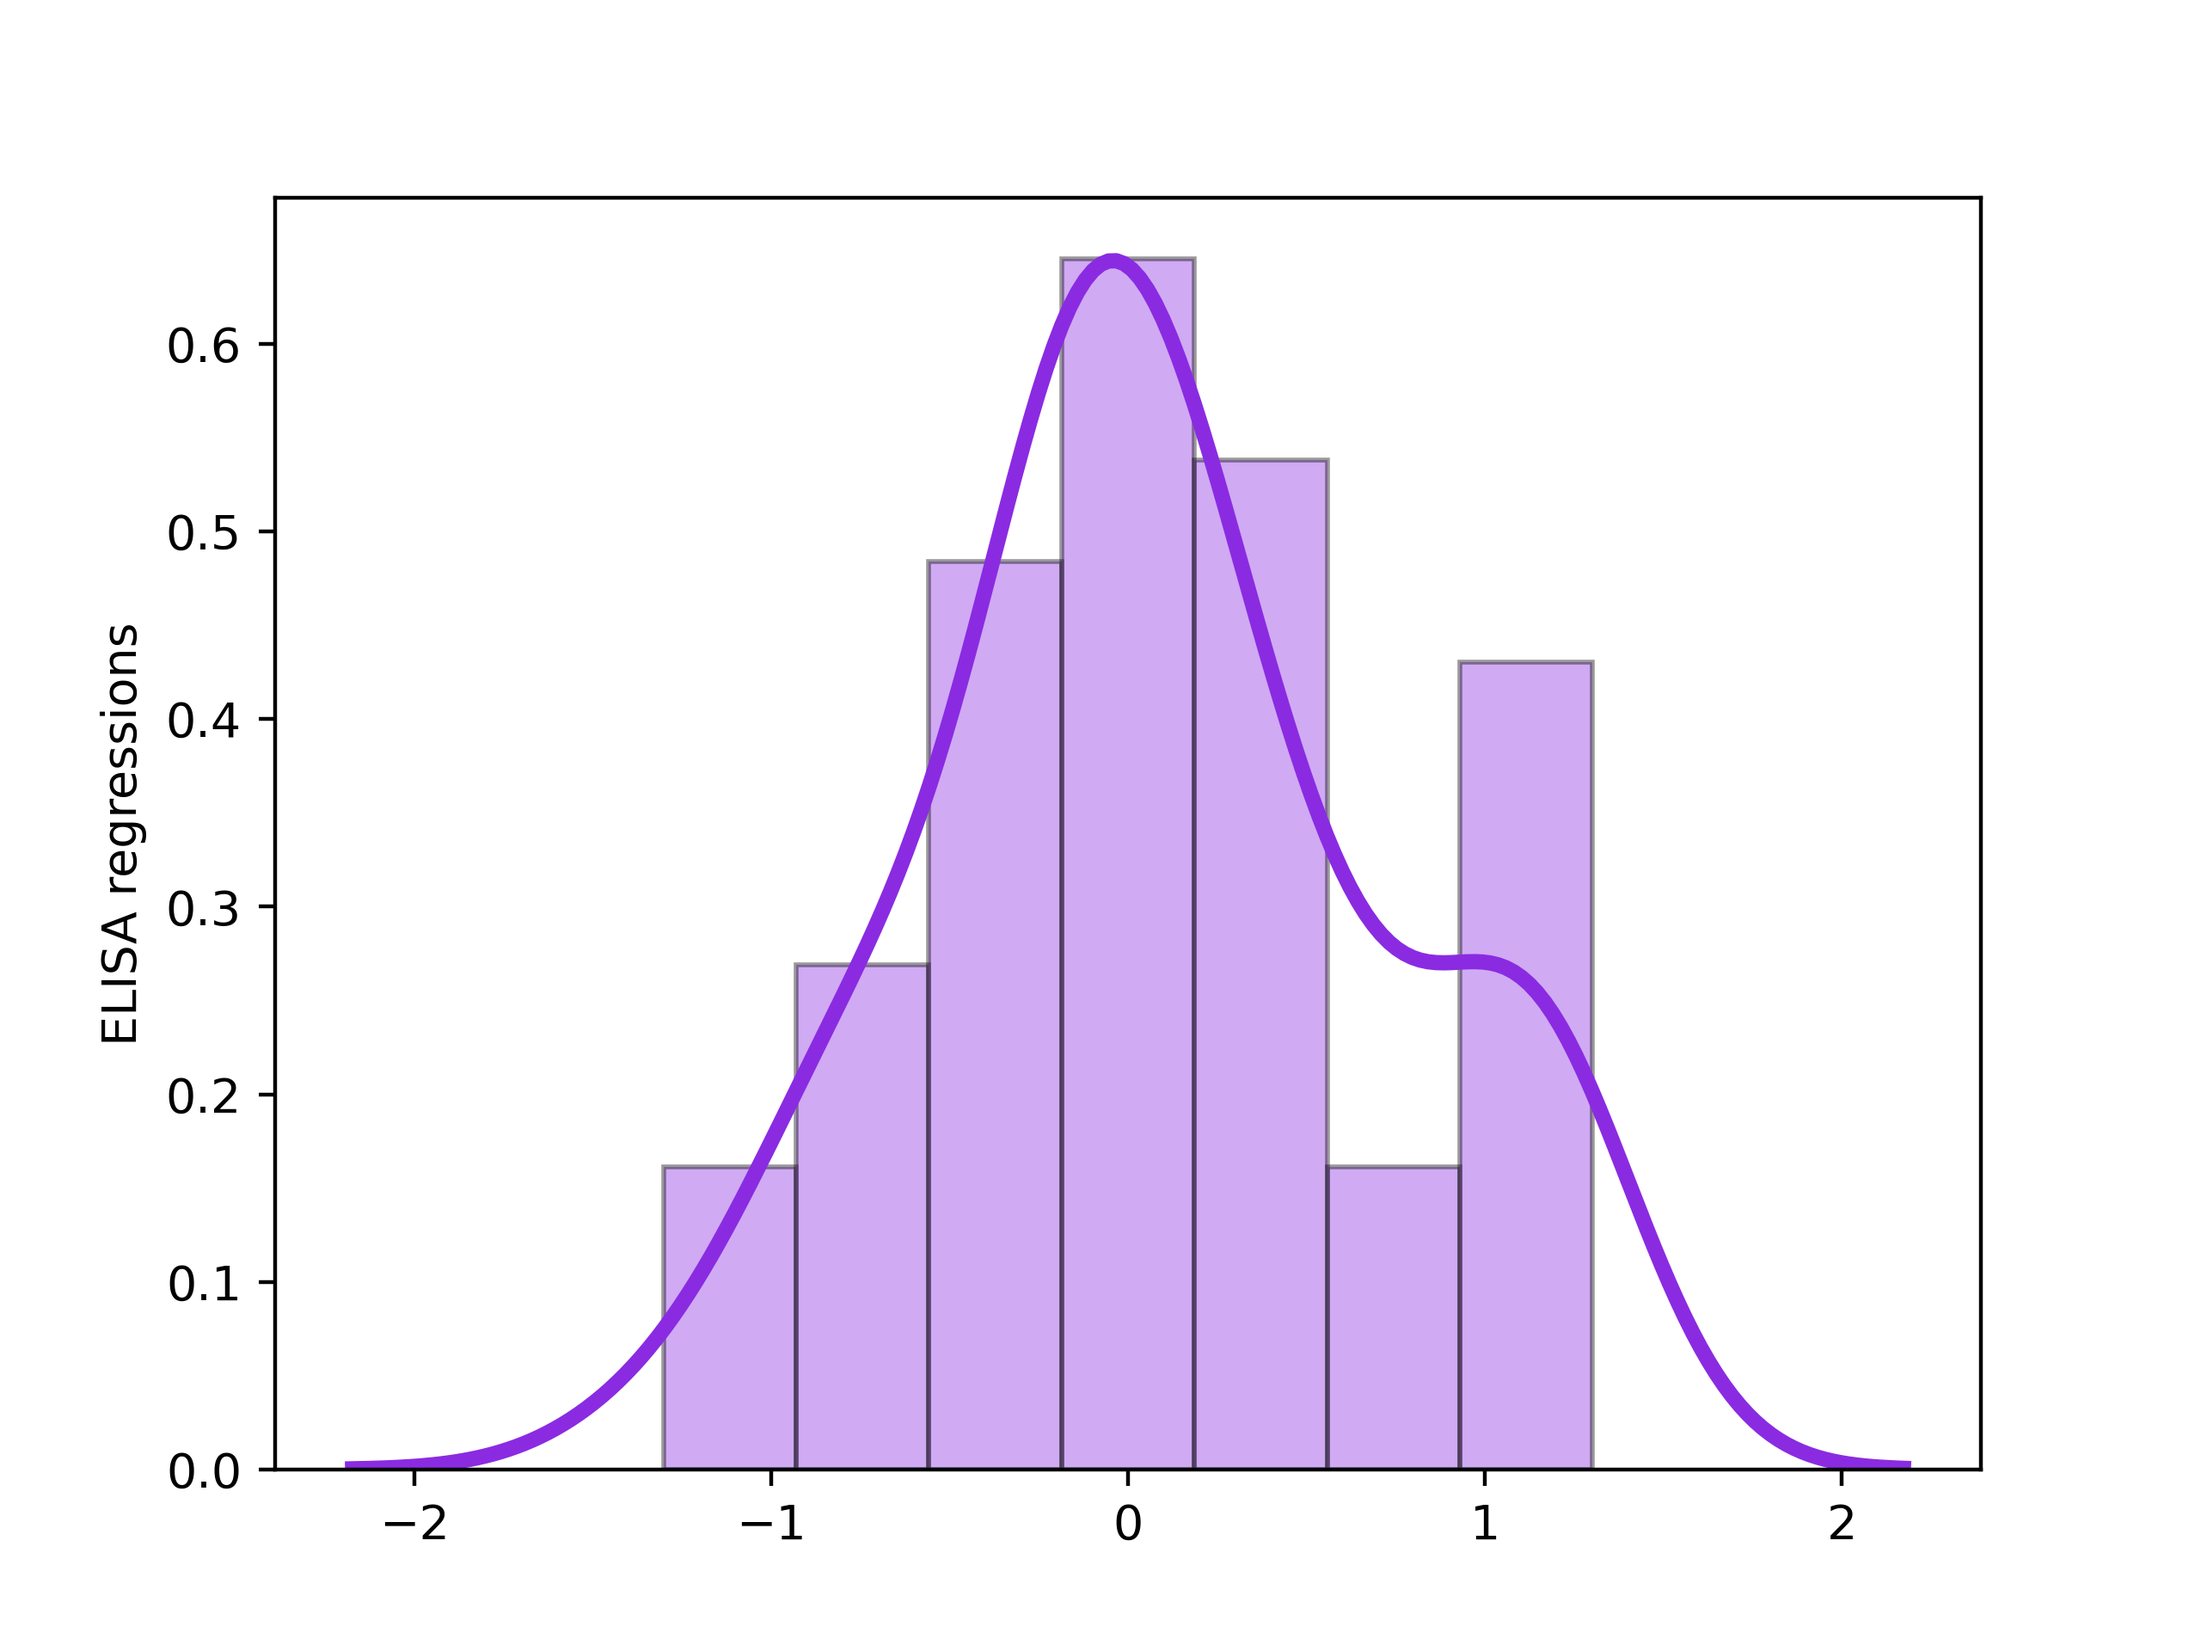
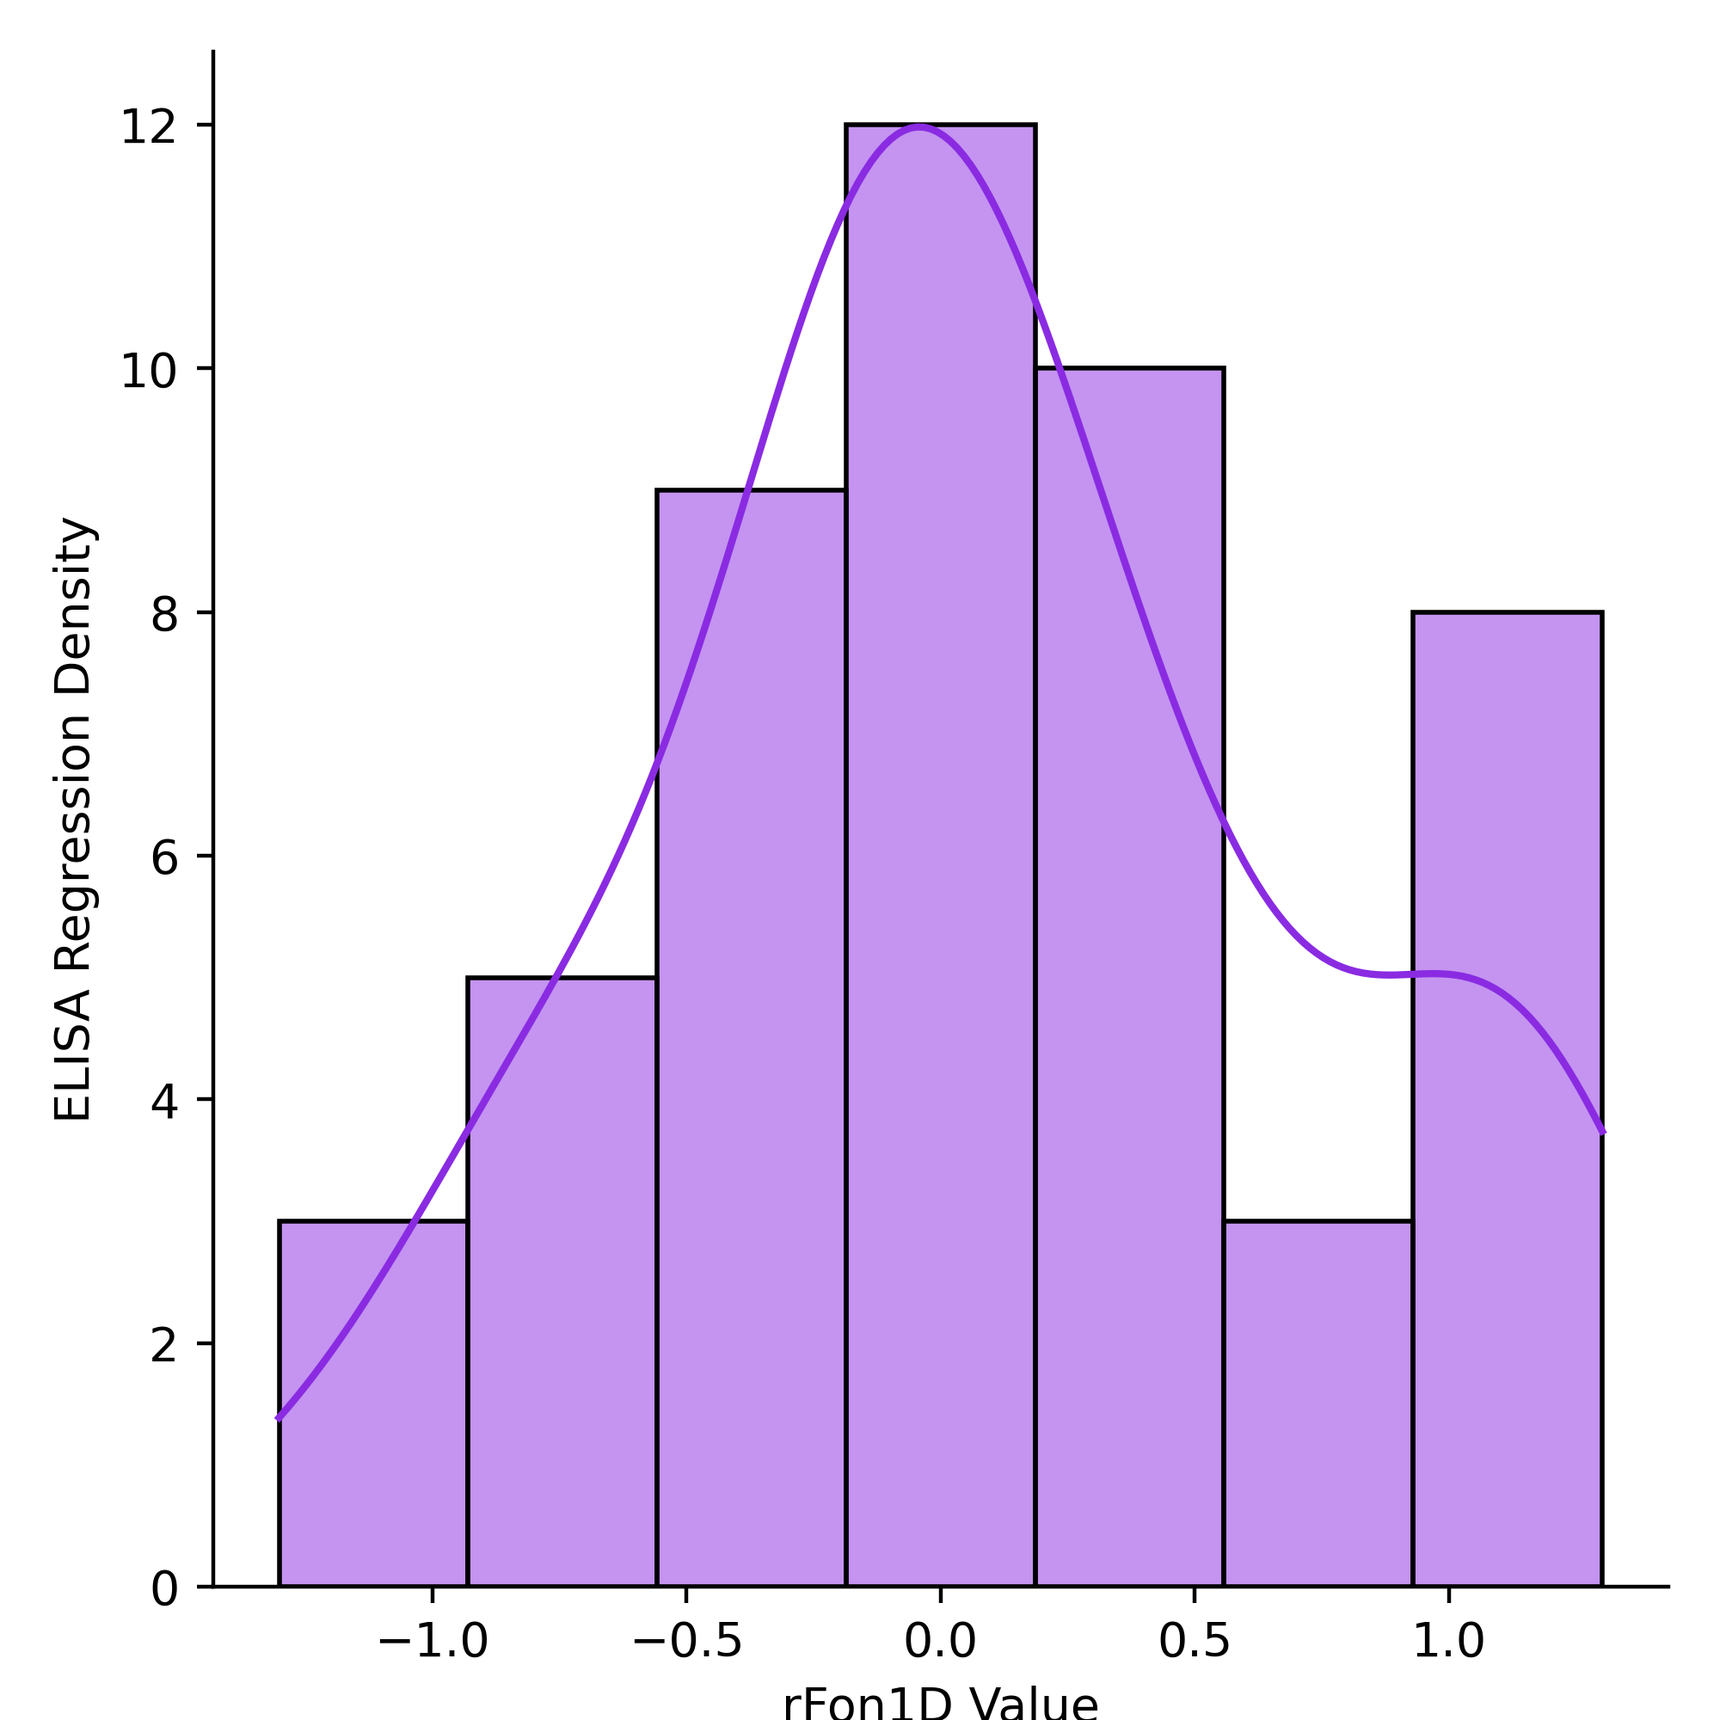
It's a density plot now

diff --git a/ortho_seq_code/plotclass.py b/ortho_seq_code/plotclass.py
@@ -189,13 +189,7 @@ class rf1d:
             z = np.where(x == i)
             s = z[0][0]
             k = z[1][0]
-            print(
-                str(round(self.x[s, k], 4))
-                + "\tSite: "
-                + str(s)
-                + "\t\tKey: "
-                + str(self.alphbt_input[k])
-            )
+            print(str(round(self.x[s, k], 4)) + "\tSite: " + str(s) + "\t\tKey: " + str(self.alphbt_input[k]))
 
     def trim(self, span, comp):
         if comp not in self.complist:
@@ -285,15 +279,14 @@ class rf1d:
         else:
             width = 0
         sns.displot(x_red, kde=True, color="blueviolet")
-        plt.ylabel(self.phenotype + " Regression Density")
+        plt.ylabel(self.phenotype + " Regression Density", stat="density")
         plt.xlabel("rFon1D Value")
         if out_dir is not None:
             path_sav = "rFon1D_density_" + str(self.phenotype) or "" + ".png"
             path_sav = path_sav.replace(" ", "_")
             plt.savefig(os.path.join(str(out_dir), path_sav), dpi=400)
             print(
-                "saved regression graph as",
-                str(os.path.join(str(out_dir), path_sav)),
+                "saved regression graph as", str(os.path.join(str(out_dir), path_sav)),
             )
         elif self.out_dir is not None:
             path_sav = "rFon1D_density_" + str(self.phenotype) or "" + ".png"
@@ -323,8 +316,7 @@ class rf1d:
             path_sav = path_sav.replace(" ", "_")
             plt.savefig(os.path.join(str(out_dir), path_sav), dpi=400)
             print(
-                "saved regression graph as",
-                str(os.path.join(str(out_dir), path_sav)),
+                "saved regression graph as", str(os.path.join(str(out_dir), path_sav)),
             )
         elif self.out_dir is not None:
             path_sav = "rFon1D_heatmap_" + str(self.phenotype) or "" + ".png"
@@ -354,8 +346,7 @@ class rf1d:
             path_sav = path_sav.replace(" ", "_")
             plt.savefig(os.path.join(str(out_dir), path_sav), dpi=400)
             print(
-                "saved regression graph as",
-                str(os.path.join(str(out_dir), path_sav)),
+                "saved regression graph as", str(os.path.join(str(out_dir), path_sav)),
             )
         elif self.out_dir is not None:
             path_sav = "rFon1D_boxplot_" + str(self.phenotype) or "" + ".png"
